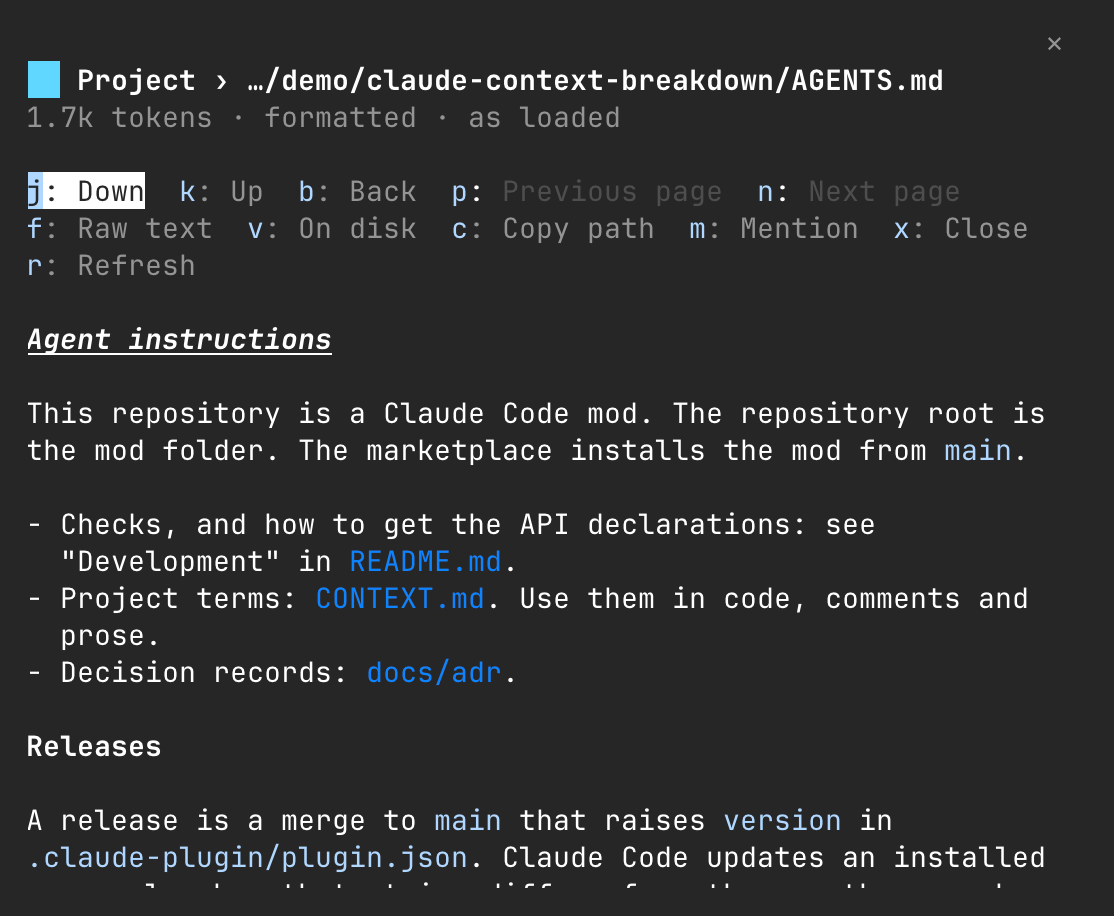
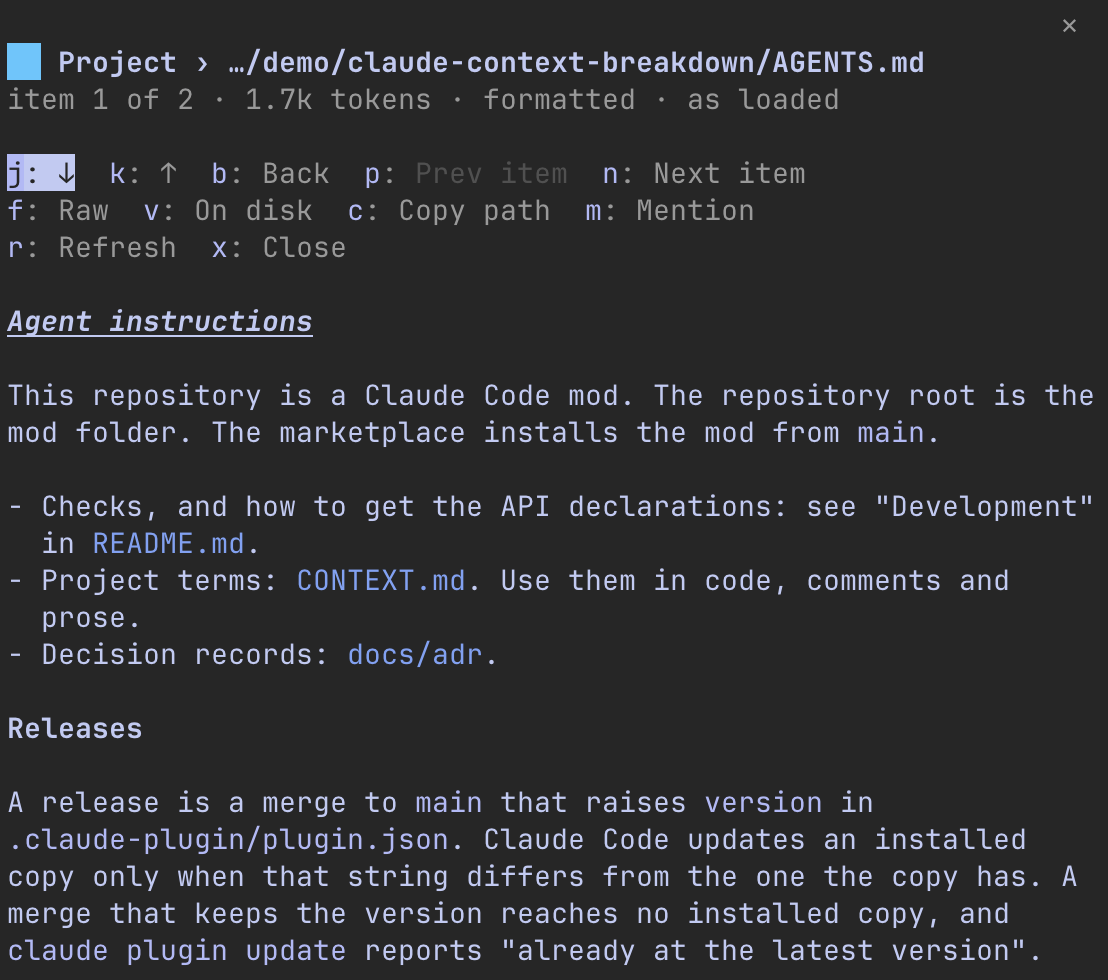
Retake three README pictures with version 0.4.0
The pane changed in this branch: definitions, one row for the tools that
are not loaded, grouped keys, and the item count at the content level. The
overview, the items picture and the content picture showed the old pane.

The pictures are real Ghostty pixels of a Claude Code 2.1.328 session in a
temporary clone, with a neutral MCP server list. The picture of the bar is
unchanged: this branch does not change the bar.

Claude-Session: https://claude.ai/code/session_013qZ16ynKT5wBWH8jjje1w2

diff --git a/README.md b/README.md
@@ -8,7 +8,7 @@ Claude Code's own `/context` command shows a similar report, but only when you a
 
 ![A Claude Code session in a terminal. The bar is above the prompt. The pane beside the conversation lists every segment with its size.](docs/img/overview.png)
 
-The pictures in this file show Claude Code 2.1.327 in Ghostty, in a session with a 200k window.
+The pictures in this file show Claude Code in Ghostty, in sessions with a 200k window: version 2.1.328, and version 2.1.327 for the picture of the bar.
 
 > Status: early version. The mod uses Claude Code's mods API, which is early access and can change between releases.
 
